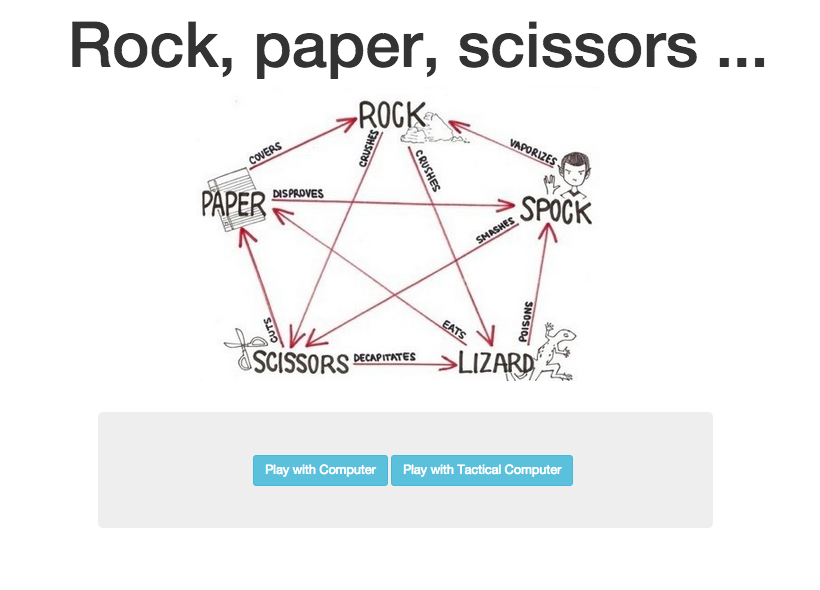
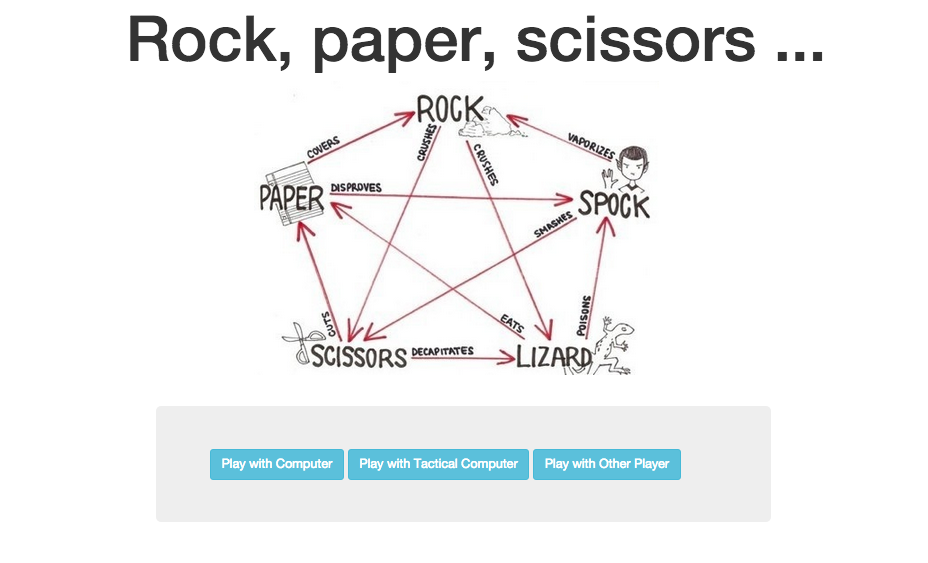
README updated. Two player playing each other feature added.

Changed region(s): [[0.2439, 0.151, 0.7317, 0.6643], [0.061, 0.0302, 0.9451, 0.151], [0.2134, 0.7549, 0.7317, 0.8757]]

diff --git a/index.html b/index.html
@@ -22,6 +22,7 @@
           <div class="button"> 
             <button class="btn btn-info" ng-click="ctrl.setTab(1)">Play with Computer</button>
             <button  class="btn btn-info" ng-click="ctrl.setTab(2)">Play with Tactical Computer</button>
+            <button  class="btn btn-info" ng-click="ctrl.setTab(3)">Play with Other Player</button>
           </div>
           <div class="game" ng-show="ctrl.isSet(1)">
               <form>
@@ -60,7 +61,31 @@
                 <h5>{{ctrl.messages[2]}}</h5>
                 <h3 id="winner">{{ctrl.gameWinner}}</h3>
               </form>
-          </div>
+              </div>
+              <div class="game" ng-show="ctrl.isSet(3)">
+              <form>
+                <select type="text" ng-model="item1" class="btn btn-default btn-large dropdown-toggle">
+                  <option value="rock">rock</option>
+                  <option value="paper">paper</option>
+                  <option value="scissors">scissors</option>
+                  <option value="lizard">lizard</option>
+                  <option value="spock">spock</option>
+                </select>
+                  <select type="text" ng-model="item2" class="btn btn-default btn-large dropdown-toggle">
+                  <option value="rock">rock</option>
+                  <option value="paper">paper</option>
+                  <option value="scissors">scissors</option>
+                  <option value="lizard">lizard</option>
+                  <option value="spock">spock</option>
+                </select>
+                <button class="btn btn-info" ng-click="ctrl.playerVsPlayerResults(item1, item2)">Play</button>
+                <button id="play-again" class="btn btn-info" ng-click="ctrl.resetGame()">Start New Game</button>
+                  <h5>{{ctrl.messages[0]}}</h5>
+                  <h5>{{ctrl.messages[1]}}</h5>
+                  <h5>{{ctrl.messages[2]}}</h5>
+                  <h3 id="winner">{{ctrl.gameWinner}}</h3>
+              </form>
+            </div>
         </section>
       </div>
     </div>

diff --git a/public/js/GameFactory.js b/public/js/GameFactory.js
@@ -68,6 +68,26 @@ angular.module('rps.factory', [])
 	      }
 	    }
 	  },
+	  humanVersusHuman: function(choice1, choice2) {
+	  	if(turns !=0) {
+	  		for(var key in shapes) {
+	  		if(choice1 ==key) {
+	  			if(choice2 == shapes[key][0] || choice2 == shapes[key][1]) {
+	  				winTurns +=1;
+	          turns -=1;
+	          return "Player 1 won this round."
+	  	       } else if (choice1 == choice2) {
+	            turns -=1
+	            winTurns +=0.5;
+	            return "It's a tie."
+	          } else {
+	            turns -=1;
+	            return "Player 2 won this round."
+	          }
+	        }
+	      }
+	    }
+	  },
 	  turns: function() {
 	  	return turns;
 	  },
@@ -79,6 +99,13 @@ angular.module('rps.factory', [])
 	      if(this.winTurns() > 1.5) {return "Congratulations, you've won the game."}
 	      if(this.winTurns() === 1.5) {return "Game results: It's a tie."}
 	      if(this.winTurns() < 1.5) {return "Ops, you've lost the game."}
+	    }
+	  },
+	  playersWinner: function() {
+	    if(this.turns() === 0) {
+	      if(this.winTurns() > 1.5) {return "Congratulations, Player 1 won the game."}
+	      if(this.winTurns() === 1.5) {return "Game results: It's a tie."}
+	      if(this.winTurns() < 1.5) {return "Congratulations, Player 2 won the game."}
 	    }
 	  }
 	};

diff --git a/public/js/GameController.js b/public/js/GameController.js
@@ -23,6 +23,14 @@ angular.module('rps.controller', [])
 
 	};
 
+	self.playerVsPlayerResults = function(item1, item2) {
+	  GameFactory.playerChooses(item1);
+	  GameFactory.playerChooses(item2);
+	  self.messages.push(GameFactory.humanVersusHuman(item1, item2));
+	  self.gameWinner = GameFactory.playersWinner();
+
+	};
+
 	self.resetGame = function() {
 	    window.location.reload()
 	}

diff --git a/public/css/style.css b/public/css/style.css
@@ -20,21 +20,21 @@ h1 {
 .button {
 	position: relative;
   top: 40%;
-  left: 20%
+ 
 }
 
 .game {
   position: relative;
   margin-top: 5% !important;
-  left: 21%
+  left: 15%
 }
 
 #play-again {
   position: relative;
-  left: 10% 
+  left: 7% 
 }
 
 #winner {
   position: relative;
-  right: 5% !important;
+  right: 8% !important;
 }

diff --git a/README.md b/README.md
@@ -1,3 +1,32 @@
 ## Extended Rock Paper Scissors Game - Javascript
 
-![Picture 1](public/img/screenshot1.png)  ![Picture 2](public/img/screenshot2.png)
+Rock Paper Scissors (plus spock and lizard) game in Javascript (AngularJS framework).
+
+![Picture 1](public/img/screenshot1.png)  ![Picture 2](public/img/screenshot2.png)  ![Picture 3](public/img/screenshot3.png)
+
+##Implemented features:
+
+```
+Player can choose rock, paper, scissors, lizard or spock.
+Player can choose to play with random computer, tactical computer or other player.
+Random computer player choose randomly between rock, paper, scissors, lizard or spock.
+Tactical computer makes first choice randomly but in 2nd and 3rd round selects shapes which would beat his previous choice.
+Game consist of 3 rounds.
+Player can see his choice when playing with computer.
+Player can see computer choice.
+Player can see round result.
+Player can see final game result.
+Player can start new game.
+```
+
+##Approach:
+
+
+
+##To run the app:
+
+
+
+##To run the tests:
+
+
